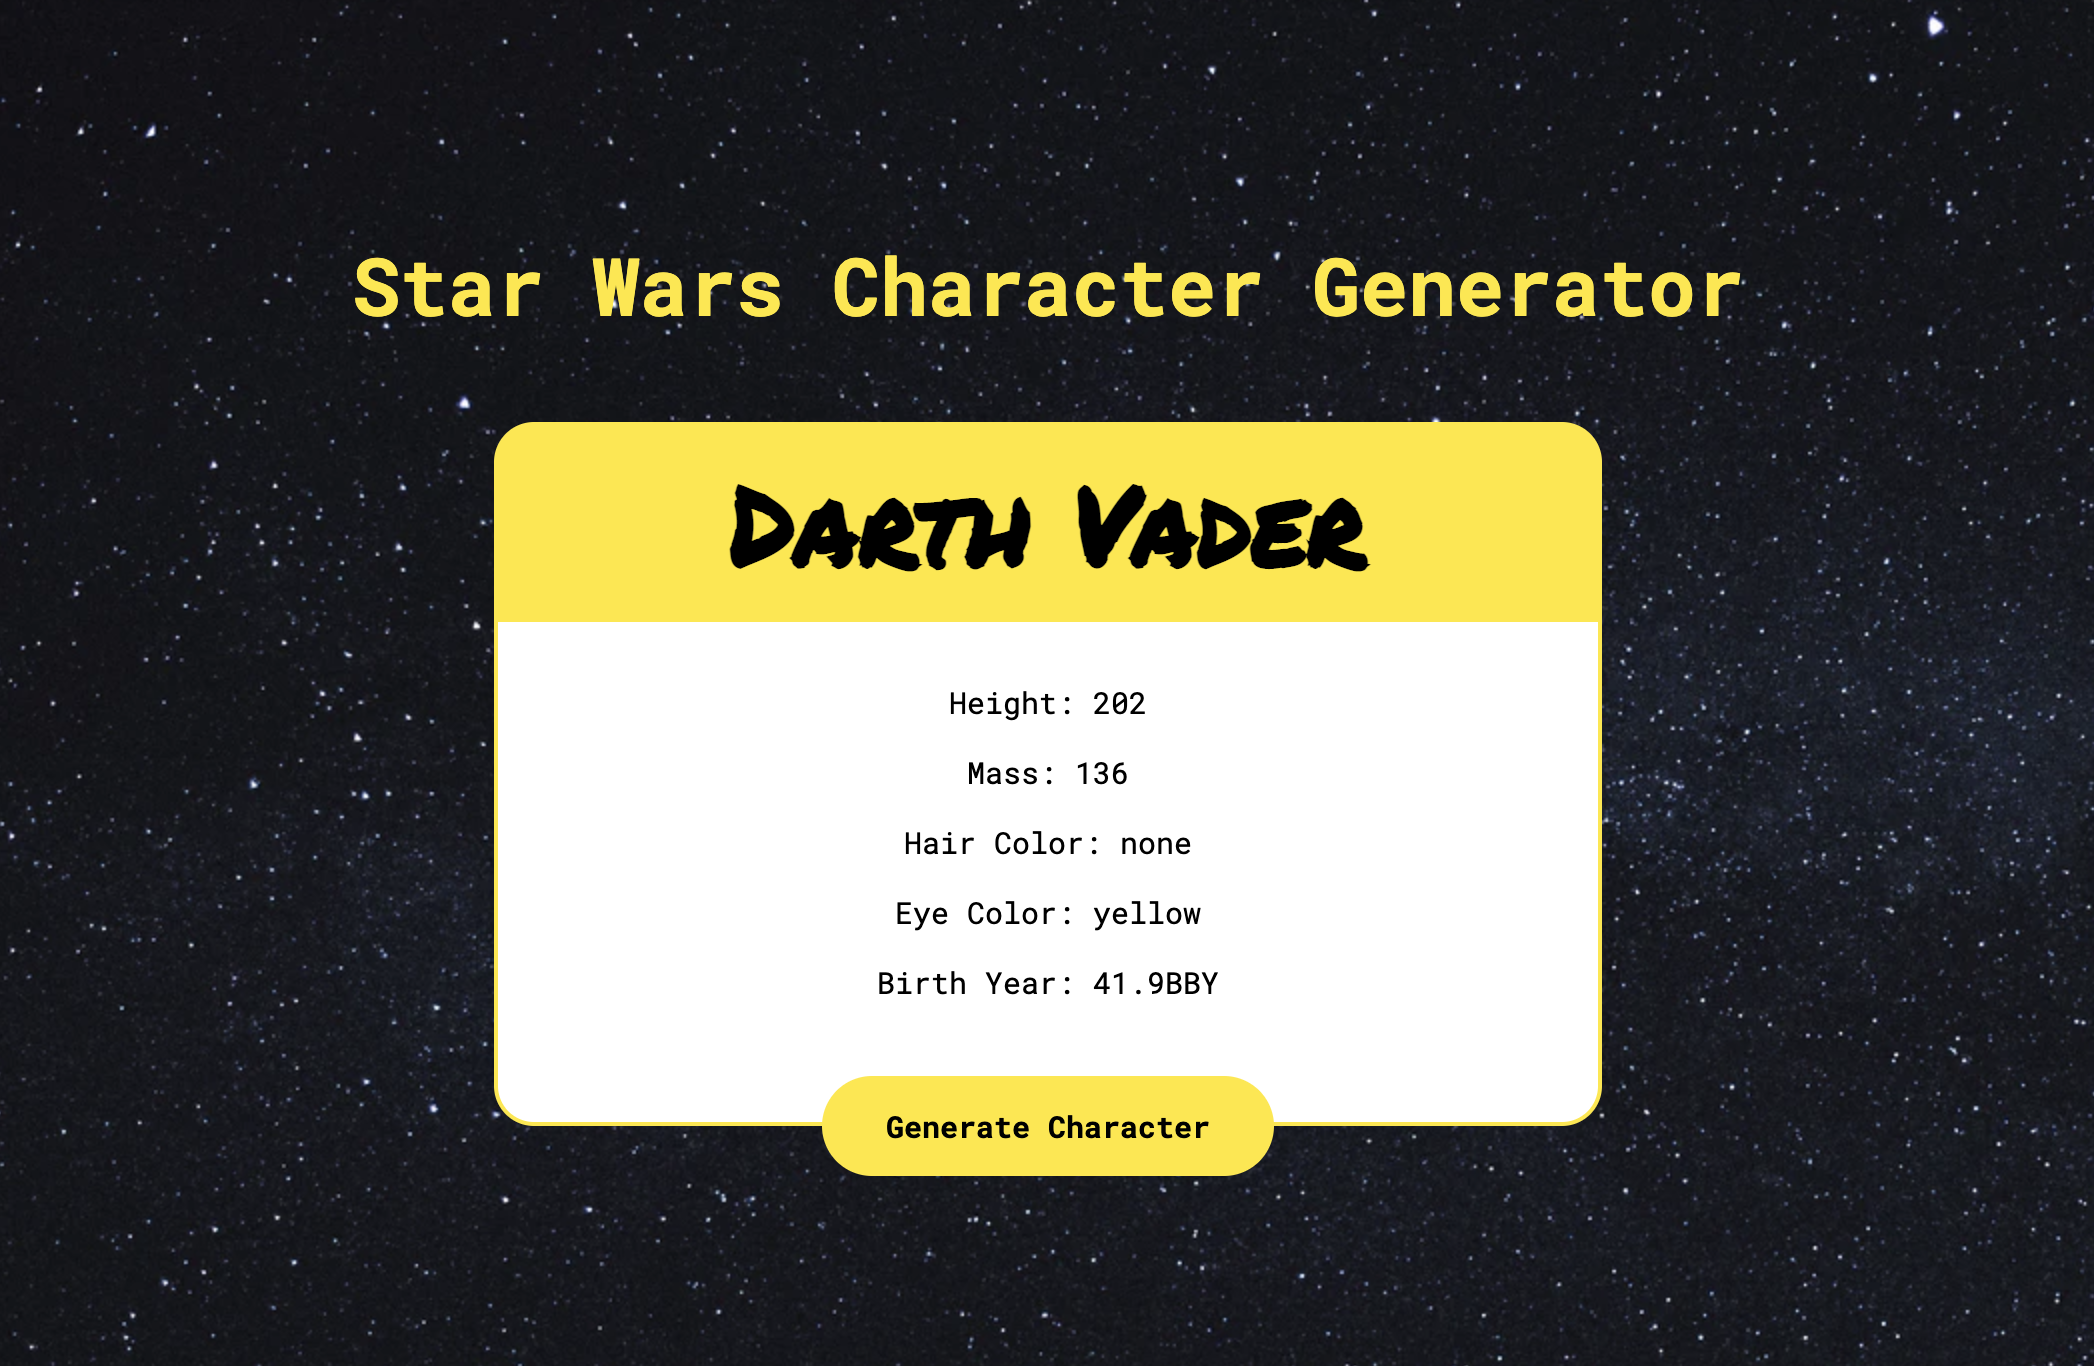
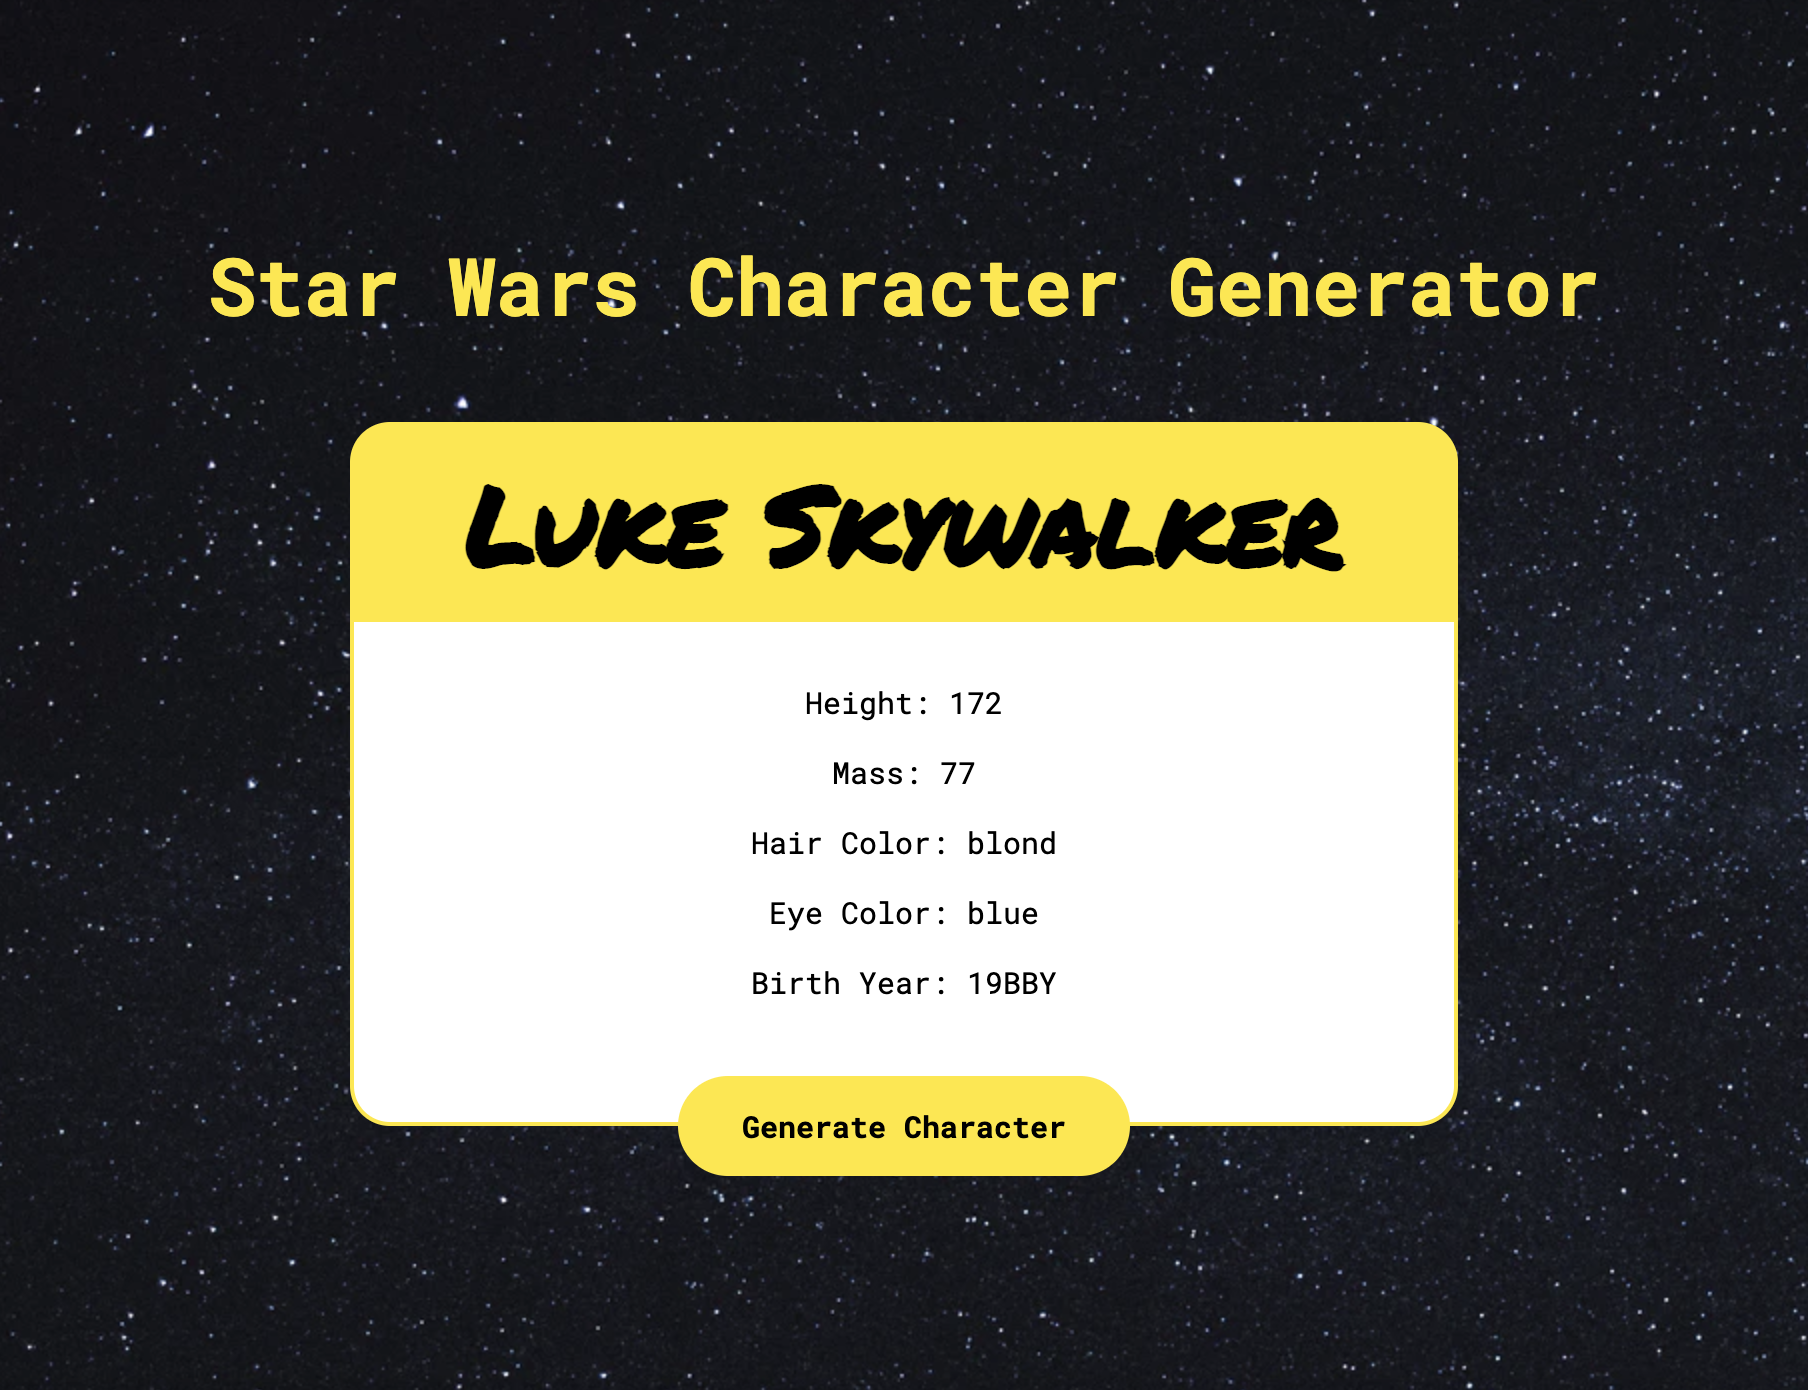
Completed README

diff --git a/README.md b/README.md
@@ -1,15 +1,151 @@
 # Star Wars API Tutorial
 
-## Objective
-Write a tutorial walking the reader through how to use the [Star Wars Open API](https://swapi.dev/) to search for a movie that features Luke Skywalker.
+## What is SWAPI?
+The [Star Wars Open API](https://swapi.dev/) is the world's first quantified and programmatically-formatted set of accessible data from the Star Wars films. Formatted in JSON, this data allows you to programmatically collect and measure the data. The data set contains sets of information about the **Films**, as well as thorough breakdowns of all the **People**, **Species**, **Starships**, **Vehicles**, and **Planets** known in the Star WArs University 
 
 ## Additional Info
-* It is safe to assume the audience / reader is a developer with technical knowledge
-* The total length should not exceed 1000 words (1-3 traditional pages)
-* Aim to cover multiple steps using the API, but you do not need to create an exhaustive guide outlining all of the API functionality
-* The sample must be written in markdown, showing proper use of markdown formatting
-* Sample should be submitted as a link to a gist or repo on GitHub so that we can view the raw markdown 
+In order to utilize SWAPI, this tutorial will address the following topics:
+* How to use SWAPI by making simple API requests
+* Finding Films with Luke Skywalker
+* Use the API to build a Star Wars Character Generator app
 
-## Deadline
-Friday, March 12, 2021
+![Character Generator Screenshot](https://raw.githubusercontent.com/christylumm/swapi-tutorial/master/img/swapi-generator.png?token=APY6ZIVNXYGEVYTDIQJZM2DAKD6O4 "Character Generator Screenshot")
 
+## How to use SWAPI
+Being a public REST API, no authentication is required to query and get the data. To retrieve the information from the database through an HTTP request, you must use a GET request. Using cURL, httpie, postman or other data transfer tools, you can transfer data through HTTP requests. 
+
+Any request will be made using SWAPI's Base URL:
+`https://swapi.dev/api/`
+
+In order to make specific API requests, you must follow object notation formatting and attach one of the six resources as a string along with the corresponding ID tag of the specific data. 
+
+The six attributes include: 
+* `films` _string_ -- The URL root for **Film** resources
+* `people` _string_ -- The URL root for **People** resources
+* `planets` _string_ -- The URL root for **Planets** resources
+* `species` _string_ -- The URL root for **Species** resources
+* `starships` _string_ -- The URL root for **Starships** resources
+* `vehicles` _string_ -- The URL root for **Vehicles** resources
+
+All API requests use this general format: 
+
+```https://swapi.dev/api/<resource>/:id ```
+
+To start, let's take the following `GET` request:
+
+ ```GET https://swapi.dev/api/films/```
+
+The response will contain all the Star Wars movies to date. If you wanted to see what movie species are stroed, you would use the following API request: 
+
+```GET https://swapi.dev/api/species/```
+
+## Finding Films with Luke Skywalker
+To find films featuring Luke Skywalker, you will need to make use of SWAPI's **People** attribute:
+
+```GET https://swapi.dev/api/people```
+
+SWAPI's **People** attribute can be fildtered through its **name** property by making use of the `search` parameter. This will allow you to make a query to search for Luke Skywalker.
+
+```GET https://swapi.dev/api/people/?search=luke```
+
+This will return the following JSON file: 
+
+```
+{
+ "name": "Luke Skywalker",
+ "height": "172",
+ "mass": "77",
+ "hair_color": "blond",
+ "skin_color": "fair",
+ "eye_color": "blue",
+ "birth_year": "19BBY",
+ "gender": "male",
+ "homeworld": "http://swapi.dev/api/planets/1/",
+ "films": [
+   "http://swapi.dev/api/films/1/",
+   "http://swapi.dev/api/films/2/",
+   "http://swapi.dev/api/films/3/",
+   "http://swapi.dev/api/films/6/"
+ ],
+ "species": [],
+ "vehicles": [
+   "http://swapi.dev/api/vehicles/14/",
+   "http://swapi.dev/api/vehicles/30/"
+ ],
+ "starships": [
+   "http://swapi.dev/api/starships/12/",
+   "http://swapi.dev/api/starships/22/"
+ ],
+ "created": "2014-12-09T13:50:51.644000Z",
+ "edited": "2014-12-20T21:17:56.891000Z",
+ "url": "http://swapi.dev/api/people/1/"
+}
+```
+
+The object contains information on Luke Skywalker including the **film** property, which lists the IDs of all the films that Luke Skywalker appeared in. In order to see information about each movie, you must make an additional API request for the specific film. 
+
+``` GET https://swapi.dev/api/films/1/```
+
+## Star Wars Character Generator
+To put SWAPI to use, let's explore the application of the API by building a simple Star Wars Character Generator using HTML, CSS, and JavaScript.
+
+The project will contain three files: 
+* app.js
+* index.html
+* style.css
+
+For this app, you will be using the third party library called `axios` to make HTTP requests. This library allows you to use Promises to handle asynchronous requests. To use `axios`, navigate to the [axios library](https://cdnjs.com/libraries/axios) and copy the script tag into `index.html`.
+
+```<script src="https://cdnjs.cloudflare.com/ajax/libs/axios/0.21.1/axios.min.js" integrity="sha512-bZS47S7sPOxkjU/4Bt0zrhEtWx0y0CRkhEp8IckzK+ltifIIE9EMIMTuT/mEzoIMewUINruDBIR/jJnbguonqQ==" crossorigin="anonymous"></script>```
+
+The base HTML page will look like this:
+![Base App](https://raw.githubusercontent.com/christylumm/swapi-tutorial/master/img/app-base.png?token=APY6ZIQX3PXEEK44PCZGMFTAKEC3I "Base App")
+
+Below is a simple example of how to make a `GET` request to the **People** attribute using `axios`:
+
+```
+axios.get(apiURL).then(function(response) {
+   updateInfo(response.data)
+})
+```
+
+To present the fetched data from SWAPI, you need to create two different functions: 
+1. `getData()` -- To fetch data from the API
+2. `updateInfo()` -- To display the data on the webpage
+
+In order to generate a random character's name each time the button is clicked, you must generate a random number to correspond with each character in the API using `Math.random`.
+
+```
+function getData() {
+ let randomNumber = Math.floor((Math.random() * 82) + 1);
+ 
+ let apiURL = 'http://swapi.dev/api/people/' + randomNumber;
+ 
+ axios.get(apiURL).then(function(response) {
+   updateInfo(response.data)
+ })
+}
+```
+
+This function will get passed each time the button is clicked by adding an event listener. 
+
+```button.addEventListener('click', getData)```
+
+In order to display the data on the webpage, you will need to access the JSON object by using dot notation for the specific property you're looking for. In this case, this will be the character's name. 
+
+```
+let character = document.querySelector('#character');
+ 
+function updateInfo(data) {
+ character.innerText = data.name
+}
+```
+
+Clicking the "Generate Character" button will now generate a random Star Wars character. Other attributes may be added in a similar fashion, so long as the property label matches what is listed in the API. 
+
+For example, writing `data.birthYear` will not work since the API lists the birth year as `birth_year`. The correct way to access this data is `data.birth_year`. 
+
+The full code for this project is available in this repo.
+
+## Wrap Up
+With close to an instant response, the Star Wars API offers many possibilities for populating your own apps and testing app functionality with Star Wars data like moves, actors, characters, and vehicles. 
